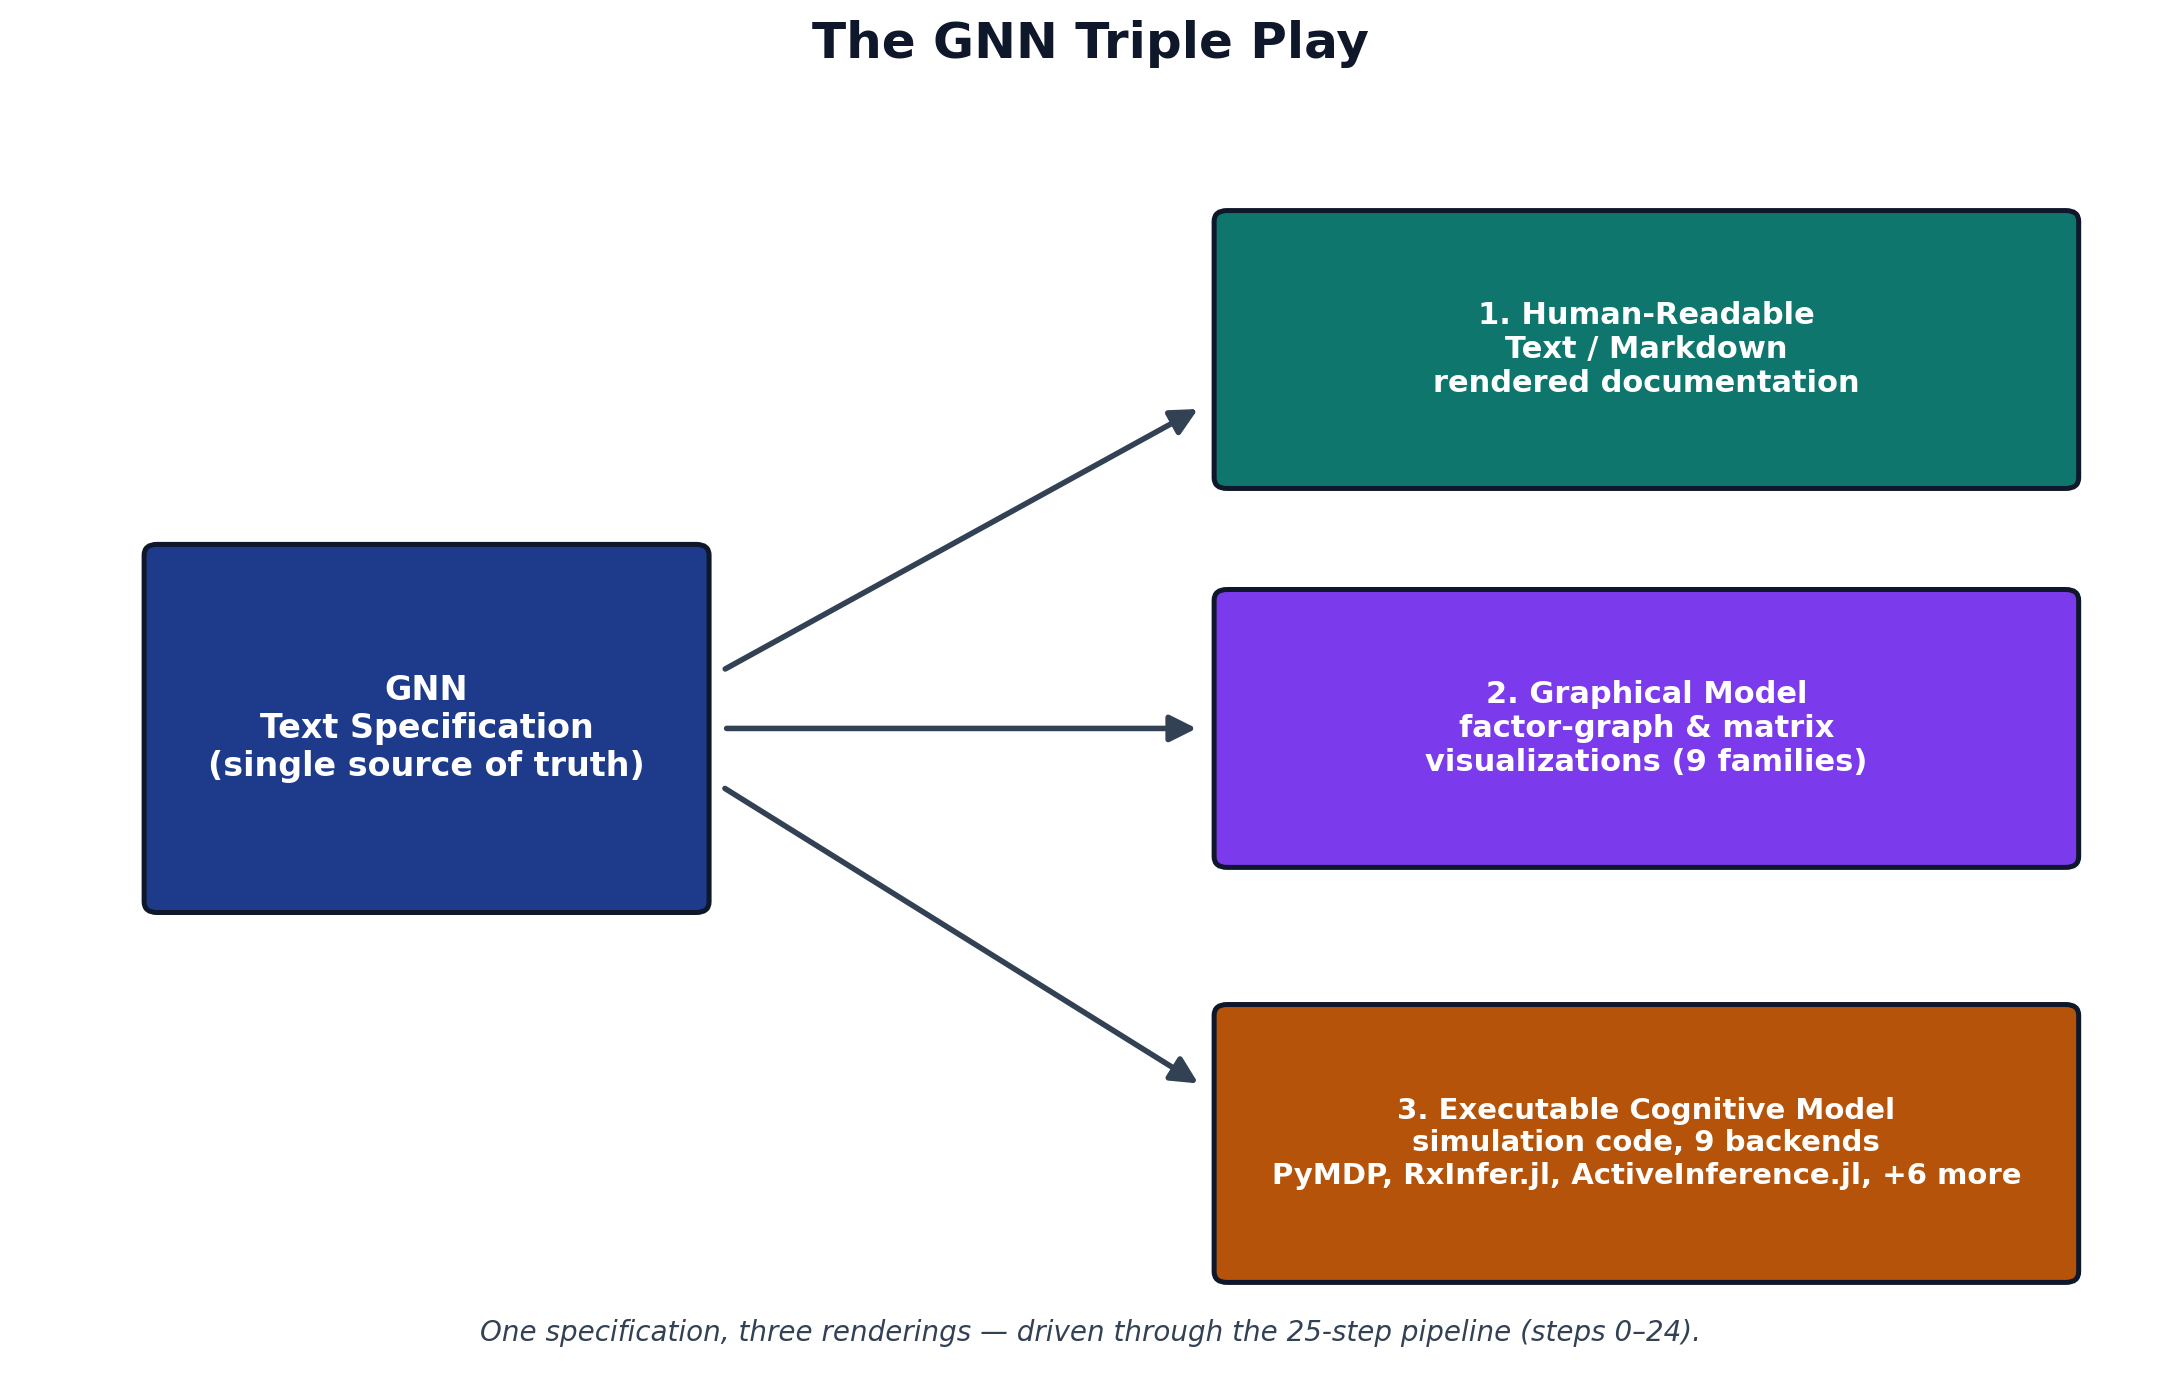
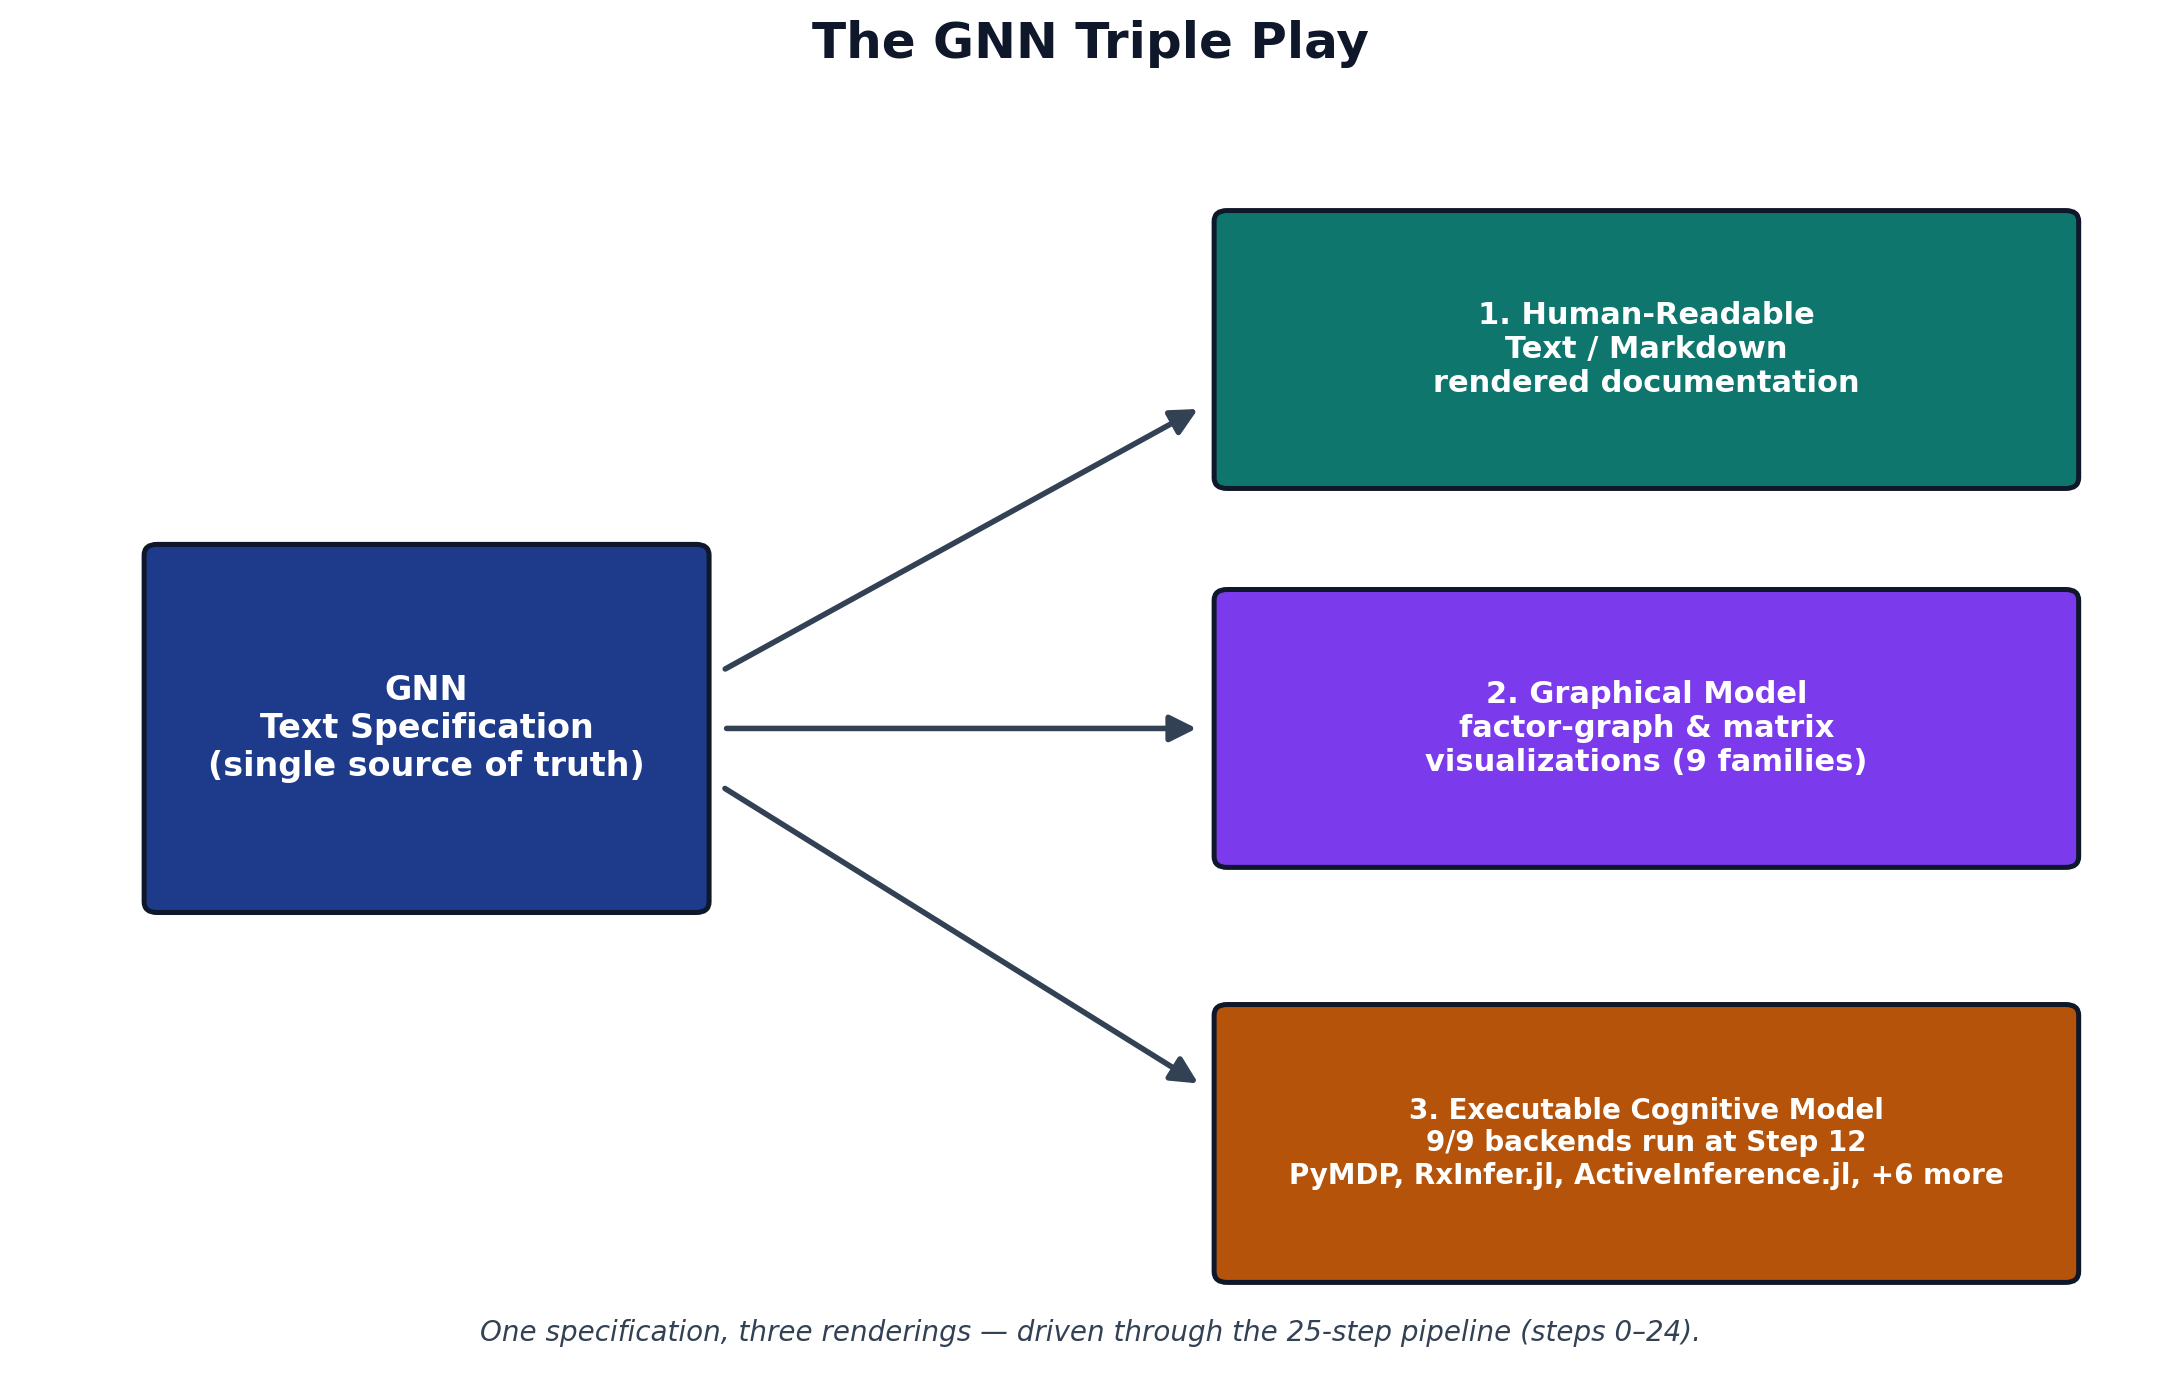
fig: redesign the six existing manuscript figures for page-scale legibility
Pipeline DAG: canvas now derived from the layout at ~0.52 in per unit with a
10pt base label font (about 5pt on the page, up from ~2.2pt), wider boxes with
a 16-character fit bound, and the axis-off call restored so no ruler lines
show. Family x backend matrix: compact fixed canvas (9.6 x 6.1) with 11.5pt
ticks and a direct per-row declared-count column. Backend registry table,
repo metrics, Triple Play and orchestration figures: fonts raised one step
each, and the Triple Play's executable node now states that 9/9 registered
backends run at Step 12 (producer tokens, so the line moves with the
registry) before the backend preview. No data sources or semantics changed —
registry digests re-recorded by the same build.

Changed region(s): [[0.5929, 0.779, 0.9362, 0.8725]]

diff --git a/scripts/manuscript_fig_family_framework.py b/scripts/manuscript_fig_family_framework.py
@@ -74,9 +74,10 @@ def main() -> Path:
             if key in decl:
                 matrix[r, c] = 1.0
 
-    fig_w = max(8.0, 1.05 * n_cols + 2.5)
-    fig_h = max(5.0, 0.62 * n_rows + 2.0)
-    fig, ax = plt.subplots(figsize=(fig_w, fig_h))
+    # Compact fixed canvas: at the manuscript's 85%-width embed this keeps
+    # tick labels near 7pt on the page instead of the ~4.8pt the old
+    # content-proportional canvas produced.
+    fig, ax = plt.subplots(figsize=(9.6, 6.1))
 
     cmap = plt.cm.colors.ListedColormap(["#f0f0f0", "#2a7a4f"])
     ax.imshow(matrix, cmap=cmap, vmin=0.0, vmax=1.0, aspect="auto")
@@ -84,9 +85,9 @@ def main() -> Path:
     ax.set_xticks(np.arange(n_cols))
     ax.set_yticks(np.arange(n_rows))
     ax.set_xticklabels(
-        [backend_names[k] for k in backends], rotation=45, ha="right", fontsize=10
+        [backend_names[k] for k in backends], rotation=45, ha="right", fontsize=11.5
     )
-    ax.set_yticklabels(family_labels, fontsize=10)
+    ax.set_yticklabels(family_labels, fontsize=11.5)
 
     ax.set_xticks(np.arange(-0.5, n_cols, 1), minor=True)
     ax.set_yticks(np.arange(-0.5, n_rows, 1), minor=True)
@@ -103,28 +104,40 @@ def main() -> Path:
                     ha="center",
                     va="center",
                     color="white",
-                    fontsize=12,
+                    fontsize=13,
                     fontweight="bold",
                 )
+        # Direct per-row labeling: how many backends each family declares.
+        ax.text(
+            n_cols - 0.25 + 0.75,
+            r,
+            f"{int(matrix[r].sum())}",
+            ha="left",
+            va="center",
+            fontsize=10.5,
+            color="#475569",
+        )
 
     covered = int(matrix.sum())
     total = n_rows * n_cols
-    ax.set_xlabel("Rendering Backend", fontsize=11)
-    ax.set_ylabel("Model Family", fontsize=11)
+
+    ax.set_xlabel("Rendering Backend", fontsize=12)
+    ax.set_ylabel("Model Family", fontsize=12)
     ax.set_title(
-        "Model Family × Rendering Backend Coverage", fontsize=13, fontweight="bold"
+        "Model Family × Rendering Backend Coverage", fontsize=15, fontweight="bold"
     )
     fig.text(
         0.5,
         0.005,
         f"Declared coverage cells: {covered} of {total} "
-        f"({n_rows} families × {n_cols} backends)",
+        f"({n_rows} families × {n_cols} backends); the right-hand count is "
+        "how many backends each family declares",
         ha="center",
-        fontsize=9,
+        fontsize=10,
         color="#555555",
     )
 
-    fig.tight_layout(rect=(0, 0.03, 1, 1))
+    fig.tight_layout(rect=(0, 0.035, 0.9, 1))
     OUTPUT_PATH.parent.mkdir(parents=True, exist_ok=True)
     fig.savefig(OUTPUT_PATH, dpi=200, bbox_inches="tight")
     plt.close(fig)

diff --git a/scripts/manuscript_fig_pipeline_dag.py b/scripts/manuscript_fig_pipeline_dag.py
@@ -43,13 +43,13 @@ PHASE_COLORS: dict[str, str] = {
 }
 
 # Box geometry in data coordinates (half-width / half-height).
-BOX_HALF_W = 1.25
+BOX_HALF_W = 1.35
 BOX_HALF_H = 0.42
 
 # Characters that fit on one line at the base font; longer labels shrink so the
 # full module name always stays inside its box (e.g. ``advanced_visualization``).
-LABEL_FIT_CHARS = 18
-BASE_FONT = 8.0
+LABEL_FIT_CHARS = 16
+BASE_FONT = 10.0
 
 
 def parse_steps(text: str) -> dict[int, dict[str, str]]:
@@ -118,7 +118,7 @@ def compute_layout(
         layers.setdefault(depth[n], []).append(n)
 
     pos: dict[int, tuple[float, float]] = {}
-    x_gap, y_gap = 4.0, 1.25
+    x_gap, y_gap = 3.4, 1.3
     for layer, nodes in layers.items():
         ordered = sorted(nodes)
         offset = (len(ordered) - 1) / 2.0
@@ -171,7 +171,15 @@ def main() -> None:
 
     pos = compute_layout(g, steps)
 
-    fig, ax = plt.subplots(figsize=(22, 12))
+    # Canvas sized so one layout unit is ~0.52 figure inches: the boxes keep
+    # their aspect at any step count and a 10pt label stays legible when the
+    # figure is scaled into a 17cm text column (about 5pt on the page).
+    xs = [p[0] for p in pos.values()]
+    ys = [p[1] for p in pos.values()]
+    unit_in = 0.52
+    fig_w = (max(xs) - min(xs)) * unit_in + 2.6
+    fig_h = (max(ys) - min(ys)) * unit_in + 1.9
+    fig, ax = plt.subplots(figsize=(fig_w, fig_h))
 
     # --- edges first (under the boxes) ------------------------------------
     for a, b in edges:
@@ -206,21 +214,20 @@ def main() -> None:
     ax.set_ylim(min(ys) - BOX_HALF_H - 0.8, max(ys) + BOX_HALF_H + 1.0)
     ax.set_aspect("equal")
     ax.set_axis_off()
-
     legend_handles = [mpatches.Patch(color=c, label=p) for p, c in PHASE_COLORS.items()]
     ax.legend(
         handles=legend_handles,
         title="Phase",
         loc="upper right",
         frameon=True,
-        fontsize=11,
-        title_fontsize=12,
+        fontsize=10,
+        title_fontsize=10.5,
     )
 
     n_steps = len(steps)
     ax.set_title(
         "GNN 25-Step Processing Pipeline",
-        fontsize=22,
+        fontsize=20,
         fontweight="bold",
         pad=14,
     )
@@ -233,7 +240,7 @@ def main() -> None:
         transform=ax.transAxes,
         ha="center",
         va="top",
-        fontsize=11,
+        fontsize=10,
         color="#475569",
     )
 

diff --git a/scripts/manuscript_fig_orchestration.py b/scripts/manuscript_fig_orchestration.py
@@ -91,7 +91,7 @@ def draw_arrow(
 
 
 def main() -> Path:
-    fig, ax = plt.subplots(figsize=(12, 7.5))
+    fig, ax = plt.subplots(figsize=(11.5, 7.1))
     ax.set_xlim(0, 12)
     ax.set_ylim(0, 7.5)
     ax.axis("off")
@@ -115,7 +115,7 @@ def main() -> Path:
         "Safe-by-design boundary — data only, no live infrastructure mutation",
         ha="center",
         va="center",
-        fontsize=11,
+        fontsize=11.5,
         fontweight="bold",
         color="#0f766e",
         zorder=2,
@@ -157,7 +157,7 @@ def main() -> Path:
             title,
             facecolor=color,
             edgecolor="#0f172a",
-            fontsize=10,
+            fontsize=11,
         )
         draw_arrow(ax, (x, header_y - 0.7), (x, stage_top + stage_h / 2 + 0.08))
 
@@ -171,7 +171,7 @@ def main() -> Path:
                 stage,
                 facecolor="#475569",
                 edgecolor="#0f172a",
-                fontsize=10,
+                fontsize=10.5,
                 textcolor="white",
             )
             if i < len(stages) - 1:
@@ -197,7 +197,7 @@ def main() -> Path:
         "acceptance gate, and 3 new MCP tools — all data-only.",
         ha="center",
         va="center",
-        fontsize=10,
+        fontsize=10.5,
         style="italic",
         color="#334155",
     )

diff --git a/scripts/manuscript_fig_backend_matrix.py b/scripts/manuscript_fig_backend_matrix.py
@@ -107,14 +107,14 @@ def main() -> None:
     ]
     subtitle = f"cross-framework reference family: {family_name}" if family_name else ""
 
-    plt.rcParams.update({"font.family": "DejaVu Sans", "font.size": 10})
+    plt.rcParams.update({"font.family": "DejaVu Sans", "font.size": 11})
     n_rows = len(rows)
-    fig_h = 1.4 + 0.42 * n_rows
+    fig_h = 1.5 + 0.46 * n_rows
     fig, ax = plt.subplots(figsize=(10.5, fig_h))
     ax.axis("off")
     ax.set_title(
         "GNN Rendering Backend Registry" + (f"\n{subtitle}" if subtitle else ""),
-        fontsize=16,
+        fontsize=17,
         fontweight="bold",
         pad=18,
     )
@@ -127,8 +127,8 @@ def main() -> None:
         colWidths=[0.20, 0.22, 0.14, 0.18, 0.20],
     )
     table.auto_set_font_size(False)
-    table.set_fontsize(10)
-    table.scale(1.0, 1.55)
+    table.set_fontsize(11)
+    table.scale(1.0, 1.6)
 
     header_bg = "#1f3b57"
     cross_bg = "#fde9a8"
@@ -186,7 +186,7 @@ def main() -> None:
         caption,
         ha="center",
         va="bottom",
-        fontsize=8.5,
+        fontsize=9.5,
         color="#444444",
         linespacing=1.5,
     )

diff --git a/scripts/manuscript_fig_repo_metrics.py b/scripts/manuscript_fig_repo_metrics.py
@@ -68,15 +68,15 @@ def main() -> None:
     # Render top-to-bottom in declared order by reversing for the y-axis.
     y_positions = list(range(len(labels)))[::-1]
 
-    fig, ax = plt.subplots(figsize=(9, 5.5))
+    fig, ax = plt.subplots(figsize=(9, 5.4))
     bars = ax.barh(y_positions, values, color="#2c7fb8", edgecolor="#0f3d5c")
 
     ax.set_yticks(y_positions)
-    ax.set_yticklabels(labels, fontsize=11)
-    ax.set_xlabel("Count (log scale)", fontsize=11)
+    ax.set_yticklabels(labels, fontsize=12.5)
+    ax.set_xlabel("Count (log scale)", fontsize=12)
     ax.set_title(
         f"GeneralizedNotationNotation at a Glance (v{version})",
-        fontsize=14,
+        fontsize=16,
         fontweight="bold",
     )
 
@@ -92,7 +92,7 @@ def main() -> None:
             f"{value}",
             va="center",
             ha="left",
-            fontsize=11,
+            fontsize=12,
             fontweight="bold",
             color="#0f3d5c",
         )

diff --git a/scripts/manuscript_fig_triple_play.py b/scripts/manuscript_fig_triple_play.py
@@ -104,6 +104,8 @@ def main() -> Path:
     family_count = vars_["GNN_FAMILY_COUNT"]
     step_range = vars_["GNN_STEP_RANGE"]
     step_count = vars_["GNN_STEP_COUNT"]
+    exec_count = vars_["GNN_EXECUTABLE_BACKEND_COUNT"]
+    exec_step = vars_["GNN_STEP_EXECUTE"]
 
     # Show a representative subset of backends on the executable node so the
     # text stays legible; full count comes from real data.
@@ -158,10 +160,10 @@ def main() -> Path:
         exec_xy,
         4.0,
         1.5,
-        f"3. Executable Cognitive Model\nsimulation code, {backend_count} backends\n{backend_preview}",
+        f"3. Executable Cognitive Model\n{exec_count}/{backend_count} backends run at Step {exec_step}\n{backend_preview}",
         facecolor="#b45309",
         edgecolor="#0f172a",
-        fontsize=10.5,
+        fontsize=10,
     )
 
     # Fan-out arrows from source to each target
